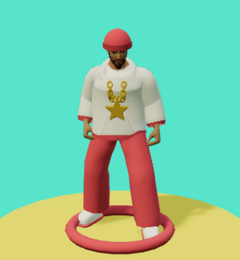
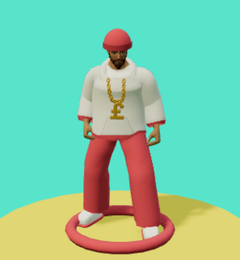
MC Goldie in Stoffkleidung, feinere Ketten mit „G“ und „£“
MC Goldie trägt Oversize-Hoodie in Spielerfarbe und weite dunkle Jeans
als Stoffschicht statt der starren Kugel-Kleidung, dazu Sneaker; Cap und
Sonnenbrille bleiben. Die starren Hoodie- und Baggy-Teile entfallen.

Die Ketten bestehen aus ineinandergreifenden Gliedern, gleichmäßig
entlang eines weichen U verteilt, und enden an einem Ring mit großem
Buchstaben: schwere Glieder mit „G“ (MC Goldie), feine Glieder mit „£“
(Lil Schmidt). Die ganze Kette ist ein Netz mit Skelettbindung; jedes
Glied übernimmt die Gewichte der Stoffstelle darunter und knickt nicht
mehr an Knochengrenzen.

Claude-Session: https://claude.ai/code/session_01XhszNgsfjRTSCqjkHzcpwW

Changed region(s): [[0.4375, 0.2769, 0.5542, 0.4615]]

diff --git a/src/three/riggedFigure.ts b/src/three/riggedFigure.ts
@@ -17,6 +17,7 @@ export type OneShot = "dash" | "hit" | "hitLight" | "jumpStart" | "land" | "slid
 const ONE_SHOTS: readonly string[] = ["dash", "hit", "hitLight", "jumpStart", "land", "slideStart", "cheer", "roll", "punch", "death"];
 
 type Body = "m" | "f";
+type Letter = "G" | "£";
 /** A garment colour: fixed, or the player's colour. */
 type Paint = number | "player";
 interface Outfit {
@@ -38,7 +39,9 @@ interface Human {
   scale?: { head?: number; hands?: number; feet?: number };
   /** Loose clothing as a cloth layer over the body: hoodie (with `trim` for hem, cuffs and hood) and trousers with a side stripe. */
   wear?: { hoodie?: Paint; trim?: Paint; pants?: Paint; stripe?: Paint };
-  accessories?: ("hoodie" | "baggy" | "cap" | "chain" | "shades" | "emblem" | "mask" | "beanie" | "pendant" | "sneakers")[];
+  /** Gold chain with a big letter pendant: heavy links (`heavy`) or a fine chain. */
+  chain?: { letter: Letter; heavy?: boolean };
+  accessories?: ("cap" | "shades" | "emblem" | "mask" | "beanie" | "sneakers")[];
 }
 interface Built { kind: "robot" | "monster" }
 type Spec = Human | Built;
@@ -50,16 +53,17 @@ export const RIGGED_SPECS: Record<RiggedCharacterId, Spec> = {
   rig_lena: { kind: "human", body: "f", skin: "light", hair: "long", hairColor: 0xe0b85c },
   rig_erik: { kind: "human", body: "m", skin: "light", hair: "buzzed", beard: true, hairColor: 0xb4532a },
   rig_zoe: { kind: "human", body: "f", skin: "dark", hair: "buzzedfemale", hairColor: 0xe07a24 },
-  // Rapper: wide hoodie in the player colour, baggy dark jeans, white sneakers, cap, shades, big gold chain.
+  // Rapper: oversized hoodie in the player colour, wide dark jeans, sneakers, cap, shades, heavy gold chain with a big G.
   rig_mc_goldie: { kind: "human", body: "m", skin: "dark", hair: "buzzed", beard: true, hairColor: 0x1a1412,
-    outfit: { shirt: "player", sleeves: "player", shorts: 0x27335a, legs: 0x27335a, shoes: 0xfff9ed, flat: 1 }, accessories: ["baggy", "hoodie", "cap", "shades", "chain"] },
+    outfit: { shirt: 0x1d1f2b, shorts: 0x27335a, legs: 0x27335a, shoes: 0xfff9ed, flat: 1 },
+    wear: { hoodie: "player", pants: 0x27335a }, chain: { letter: "G", heavy: true }, accessories: ["cap", "shades", "sneakers"] },
   // Comic heroine in the game's palette: big head and hands, stepped shading, outline.
   rig_kiki_komet: { kind: "human", body: "f", skin: "light", hair: "buns", hairColor: 0xff5fa8, toon: true, scale: { head: 1.3, hands: 1.35, feet: 1.25 },
     outfit: { shirt: "player", shorts: 0x6544e8, legs: 0xffe44e, shoes: 0xffe44e, gloves: 0xffe44e, wide: [.012, 0, .012, .02], flat: 1 }, accessories: ["emblem", "mask"] },
-  // Second rapper: oversized hoodie and wide trousers as cloth layers, beanie, gold chain with a star.
+  // Second rapper: light oversized hoodie, track pants in the player colour, beanie, fine gold chain with a big £.
   rig_lil_schmidt: { kind: "human", body: "m", skin: "light", hair: "buzzed", beard: true, hairColor: 0x7a4a24,
     outfit: { shirt: 0xfff9ed, shorts: "player", legs: "player", shoes: 0xfff9ed, flat: 1 },
-    wear: { hoodie: 0xece6da, trim: "player", pants: "player", stripe: 0xfff9ed }, accessories: ["beanie", "pendant", "sneakers"] },
+    wear: { hoodie: 0xece6da, trim: "player", pants: "player", stripe: 0xfff9ed }, chain: { letter: "£" }, accessories: ["beanie", "sneakers"] },
   rig_bolt: { kind: "robot" },
   rig_glubschi: { kind: "monster" }
 };
@@ -209,49 +213,92 @@ function starShape(outer: number, inner: number) {
   return star;
 }
 
+/**
+ * Outline of a pendant letter, about one unit tall, centred on the origin.
+ * The £ is built from overlapping strokes (hook with ball end, stem, crossbar, base).
+ */
+function letterShapes(letter: Letter): T.Shape[] {
+  if (letter === "G") {
+    // A ring open at the top right, with the spur and bar of the G.
+    const R = .5, r = .33, open = 40 * Math.PI / 180, bar = .15, inner = Math.sqrt(r * r - bar * bar), g = new T.Shape();
+    g.moveTo(Math.cos(open) * R, Math.sin(open) * R); g.absarc(0, 0, R, open, Math.PI * 2, false);
+    g.lineTo(.03, 0); g.lineTo(.03, -bar); g.lineTo(inner, -bar);
+    g.absarc(0, 0, r, Math.PI * 2 - Math.atan2(bar, inner), open, true); g.closePath();
+    return [g];
+  }
+  const rect = (x0: number, y0: number, x1: number, y1: number) => { const shape = new T.Shape(); shape.moveTo(x0, y0); shape.lineTo(x1, y0); shape.lineTo(x1, y1); shape.lineTo(x0, y1); shape.closePath(); return shape; };
+  const cx = .1, cy = .22, R = .27, r = .13, end = 12 * Math.PI / 180, hook = new T.Shape(), ball = new T.Shape(), tip = (R + r) / 2;
+  hook.moveTo(cx + Math.cos(end) * R, cy + Math.sin(end) * R); hook.absarc(cx, cy, R, end, Math.PI, false); hook.lineTo(cx - r, cy); hook.absarc(cx, cy, r, Math.PI, end, true); hook.closePath();
+  ball.absarc(cx + Math.cos(end) * tip, cy + Math.sin(end) * tip, .085, 0, Math.PI * 2, false);
+  return [hook, ball, rect(cx - R, -.4, cx - r, cy + .005), rect(-.31, -.11, .17, .02), rect(-.37, -.5, .37, -.36)];
+}
+
 /** Clothing pieces and accessories, fitted to the rest pose of this body; each follows one bone. */
 function accessorize(spec: Human, model: T.Object3D, body: T.SkinnedMesh, cloth: T.Mesh | undefined, player: number, materials: T.Material[]) {
   const bone = (n: string) => model.getObjectByName(n)!, at = (n: string) => bone(n).getWorldPosition(new T.Vector3());
   const head = boneBounds(body, /^Head$/), c = head.getCenter(new T.Vector3()), size = head.getSize(new T.Vector3()), radius = Math.max(size.x, size.z) / 2;
   const paint = (p: Paint | undefined, fallback: number) => p === undefined ? fallback : p === "player" ? player : p;
-  const neck = at("neck_01"), chest = boneBounds(body, /^spine_0[23]$/), torso = at("spine_01").lerp(at("spine_03"), .55);
-  // Half axes of the hoodie body; also the surface the chain and emblem rest on.
-  const hoodie = spec.accessories?.includes("hoodie") ? new T.Vector3(.26, .33, .21) : undefined;
-  const frontAt = (x: number, y: number) => cloth && spec.wear?.hoodie !== undefined ? clothSurface(cloth, x, y) : hoodie
-    ? torso.z + hoodie.z * Math.sqrt(Math.max(.05, 1 - ((y - torso.y) / hoodie.y) ** 2 - (x / hoodie.x) ** 2))
-    : chest.max.z + (spec.outfit?.wide?.[0] ?? 0);
-  /** Thin rod between two points (rest pose), following `to`. */
-  const rod = (to: string, from: T.Vector3, end: T.Vector3, radius: number, material: T.Material) => attach(bone(to), new T.CylinderGeometry(radius, radius, from.distanceTo(end), 8), material,
-    m => { m.position.copy(from).lerp(end, .5); m.quaternion.setFromUnitVectors(new T.Vector3(0, 1, 0), end.clone().sub(from).normalize()); }, materials);
-  /** Gold chain on the chest: links from the collar down to a pendant; heavy straight strands or a fine hanging curve. */
-  const chain = (pendant: "disc" | "star", width: number, drop: number) => {
-    const heavy = pendant === "disc", gold = std(heavy ? 0xffc533 : 0xffcb3a, { roughness: heavy ? .25 : .32, metalness: heavy ? .85 : .5 }), low = new T.Vector3(neck.x, neck.y - drop, 0), size = heavy ? .032 : .02;
-    // The strand as points on the cloth, then links at even distances along it.
-    const strand = (side: number, k: number) => { const x = neck.x + side * width * (heavy ? 1 - k : Math.cos(k * Math.PI / 2)), y = neck.y - .05 - (drop - .05) * (heavy ? k : Math.sin(k * Math.PI / 2)); return new T.Vector3(x, y, frontAt(x, y) + size * .7); };
+  const neck = at("neck_01"), chest = boneBounds(body, /^spine_0[23]$/);
+  // The surface chains and emblems rest on: the hoodie's cloth, or the (painted) chest.
+  const frontAt = (x: number, y: number) => cloth && spec.wear?.hoodie !== undefined ? clothSurface(cloth, x, y) : chest.max.z + (spec.outfit?.wide?.[0] ?? 0);
+  /**
+   * Gold chain: two strands hang from the collar in a soft U onto the cloth. The
+   * links interlock (every second one turned by 90° around the strand) and are
+   * spaced evenly along it; a ring at the bottom carries the letter pendant.
+   */
+  const chain = (letter: Letter, heavy: boolean) => {
+    const gold = std(0xffc533, { roughness: .3, metalness: .55 }), size = heavy ? .019 : .012, thick = heavy ? .42 : .36;
+    const width = heavy ? .1 : .062, drop = heavy ? .29 : .25, top = neck.y - .035, bottom = neck.y - drop;
+    const ring = size * 1.25, rest = size * thick + (heavy ? .012 : .008);
+    // Each strand ends at the side of the ring, so the two never pile up in the middle.
+    const strand = (side: number, k: number) => {
+      const x = neck.x + side * (ring + (width - ring) * Math.cos(k * Math.PI / 2)), y = top - (top - bottom) * Math.sin(k * Math.PI / 2);
+      return new T.Vector3(x, y, frontAt(x, y) + rest);
+    };
+    const link = new T.TorusGeometry(size, size * thick, 6, 12), parts: T.BufferGeometry[] = [];
+    const add = (geometry: T.BufferGeometry, place: (o: T.Object3D) => void) => { const o = new T.Object3D(); place(o); o.updateMatrix(); parts.push(geometry.clone().applyMatrix4(o.matrix)); };
     for (const side of [-1, 1]) {
-      const points = Array.from({ length: 49 }, (_, i) => strand(side, i / 48)), lengths = [0];
+      const points = Array.from({ length: 65 }, (_, i) => strand(side, i / 64)), lengths = [0];
       for (let i = 1; i < points.length; i++) lengths.push(lengths[i - 1] + points[i].distanceTo(points[i - 1]));
-      const total = lengths[lengths.length - 1], links = heavy ? 5 : Math.round(total / (size * 1.75));
+      const total = lengths[lengths.length - 1], links = Math.round(total / (size * 1.75));
       for (let i = 0, at = 1; i <= links; i++) {
         const want = total * i / links; while (at < points.length - 1 && lengths[at] < want) at++;
         const position = points[at - 1].clone().lerp(points[at], (want - lengths[at - 1]) / Math.max(1e-6, lengths[at] - lengths[at - 1])), along = points[at].clone().sub(points[at - 1]).normalize();
-        // On a cloth layer the upper links follow the chest, the lower ones the belly, like the cloth below them.
-        attach(bone(cloth && position.y > neck.y - .17 ? "spine_03" : "spine_02"), new T.TorusGeometry(size, size * .38, 6, 12), gold, m => {
-          m.position.copy(position);
-          if (heavy) m.rotation.set(0, i % 2 ? Math.PI / 2 : 0, side * .45);
-          else { m.scale.y = 1.3; m.quaternion.setFromUnitVectors(new T.Vector3(0, 1, 0), along); if (i % 2) m.rotateY(Math.PI / 2); }
-        }, materials);
+        add(link, m => {
+          m.position.copy(position); m.scale.set(1, 1.45, heavy ? .8 : 1);
+          m.quaternion.setFromUnitVectors(new T.Vector3(0, 1, 0), along); if (i % 2) m.rotateY(Math.PI / 2);
+        });
       }
     }
-    if (pendant === "disc") {
-      const y = low.y - .1;
-      attach(bone("spine_02"), new T.CylinderGeometry(.1, .1, .03, 24), gold, m => { m.rotation.x = Math.PI / 2; m.position.set(low.x, y, frontAt(0, y) + .03); }, materials);
-      attach(bone("spine_02"), new T.CylinderGeometry(.055, .055, .04, 6), std(INK, { roughness: .2, metalness: .3 }), m => { m.rotation.x = Math.PI / 2; m.position.set(low.x, y, frontAt(0, y) + .034); }, materials);
-    } else {
-      const y = low.y - .085;
-      attach(bone("spine_02"), new T.ExtrudeGeometry(starShape(.1, .044), { depth: .022, bevelEnabled: true, bevelSize: .006, bevelThickness: .006, bevelSegments: 1 }), gold, m => m.position.set(low.x, y, frontAt(0, y) + .014), materials);
-    }
+    // Ring at the bottom of the U, then the letter, tilted to rest on the cloth.
+    const hang = bottom - ring * .55, height = heavy ? .17 : .15;
+    add(new T.TorusGeometry(ring, size * thick * 1.1, 6, 14), m => m.position.set(neck.x, hang, frontAt(0, hang) + rest));
+    const shape = new T.ExtrudeGeometry(letterShapes(letter), { depth: .1, bevelEnabled: true, bevelSize: .035, bevelThickness: .04, bevelSegments: 2, curveSegments: 14 });
+    shape.computeBoundingBox(); const box = shape.boundingBox!;
+    shape.translate(-(box.min.x + box.max.x) / 2, -box.max.y, -box.min.z); shape.scale(height / (box.max.y - box.min.y), height / (box.max.y - box.min.y), .15);
+    const y0 = hang - ring * .8, y1 = y0 - height, slope = Math.atan2(frontAt(0, y0) - frontAt(0, y1), height);
+    // Lift it until no part of the back sinks into the cloth.
+    let lift = 0; for (let k = 0; k <= 6; k++) { const y = y0 - height * k / 6; lift = Math.max(lift, frontAt(0, y) - (frontAt(0, y0) - Math.tan(slope) * height * k / 6)); }
+    add(shape, m => { m.rotation.x = slope; m.position.set(neck.x, y0, frontAt(0, y0) + lift + .004); });
+    // One skinned mesh: every link takes the bone weights of the cloth (or skin) right below it, so the
+    // strand bends smoothly with the chest instead of breaking where one bone hands over to the next.
+    const under = cloth ?? body, from = under.geometry.attributes.position, fromIndex = under.geometry.attributes.skinIndex, fromWeight = under.geometry.attributes.skinWeight;
+    const merged = mergeGeometries(parts.map(part => {
+      const g = part.index ? part.toNonIndexed() : part; for (const name of Object.keys(g.attributes)) if (!["position", "normal"].includes(name)) g.deleteAttribute(name);
+      g.computeBoundingBox(); const centre = g.boundingBox!.getCenter(new T.Vector3()), v = new T.Vector3();
+      let best = 0, bestDistance = Infinity;
+      for (let i = 0; i < from.count; i++) { const d = v.fromBufferAttribute(from, i).distanceToSquared(centre); if (d < bestDistance) { bestDistance = d; best = i; } }
+      const count = g.attributes.position.count, index = new Uint16Array(count * 4), weight = new Float32Array(count * 4);
+      for (let i = 0; i < count; i++) for (let k = 0; k < 4; k++) { index[i * 4 + k] = fromIndex.getComponent(best, k); weight[i * 4 + k] = fromWeight.getComponent(best, k); }
+      g.setAttribute("skinIndex", new T.Uint16BufferAttribute(index, 4)); g.setAttribute("skinWeight", new T.Float32BufferAttribute(weight, 4));
+      return g;
+    }));
+    parts.forEach(g => g.dispose()); link.dispose(); shape.dispose();
+    const mesh = new T.SkinnedMesh(merged, gold); mesh.bind(body.skeleton, body.bindMatrix);
+    mesh.position.copy(body.position); mesh.quaternion.copy(body.quaternion); mesh.scale.copy(body.scale);
+    mesh.castShadow = true; mesh.frustumCulled = false; body.parent!.add(mesh); materials.push(gold);
   };
+  if (spec.chain) chain(spec.chain.letter, !!spec.chain.heavy);
   if (cloth && spec.wear?.hoodie !== undefined) {
     // The hood lies down: a roll around the neck, thick at the back, thin towards the chest, and a pouch on the upper back.
     const fabric = std(paint(spec.wear.hoodie, player), { roughness: .94 });
@@ -272,23 +319,7 @@ function accessorize(spec: Human, model: T.Object3D, body: T.SkinnedMesh, cloth:
     for (const side of [-1, 1]) attach(bone("spine_03"), new T.SphereGeometry(.024, 10, 8), fabric, m => m.position.copy(along(side)), materials);
   }
   for (const item of spec.accessories ?? []) {
-    if (item === "hoodie") {
-      // Wide hoodie: a roomy body, puffy sleeves, a hood on the back and a belly pocket.
-      const cloth = std(paint(spec.outfit?.shirt, player), { roughness: .92 }), trim = std(new T.Color(paint(spec.outfit?.shirt, player)).multiplyScalar(.72).getHex(), { roughness: .92 });
-      attach(bone("spine_02"), new T.SphereGeometry(1, 24, 18), cloth, m => { m.scale.copy(hoodie!); m.position.copy(torso); }, materials);
-      attach(bone("spine_03"), new T.SphereGeometry(1, 16, 12), trim, m => { m.scale.set(.17, .13, .11); m.position.set(neck.x, neck.y - .01, neck.z - .11); }, materials);
-      attach(bone("spine_02"), new T.BoxGeometry(.24, .1, .04), trim, m => m.position.set(torso.x, torso.y - .2, frontAt(0, torso.y - .2) - .012), materials);
-      for (const s of ["l", "r"]) {
-        attach(bone(`upperarm_${s}`), new T.SphereGeometry(.12, 14, 12), cloth, m => m.position.copy(at(`upperarm_${s}`)), materials);
-        limbPart(model, `upperarm_${s}`, `lowerarm_${s}`, .095, cloth, materials);
-        limbPart(model, `lowerarm_${s}`, `hand_${s}`, .088, cloth, materials, .86);
-      }
-    } else if (item === "baggy") {
-      // Baggy trousers: wide seat and legs that stop above the sneakers.
-      const cloth = std(paint(spec.outfit?.shorts, 0x27335a), { roughness: .9 }), hips = at("pelvis");
-      attach(bone("pelvis"), new T.SphereGeometry(1, 20, 14), cloth, m => { m.scale.set(.22, .17, .18); m.position.set(hips.x, hips.y - .03, hips.z + .02); }, materials);
-      for (const s of ["l", "r"]) { limbPart(model, `thigh_${s}`, `calf_${s}`, .115, cloth, materials); limbPart(model, `calf_${s}`, `foot_${s}`, .105, cloth, materials, .9); }
-    } else if (item === "cap") {
+    if (item === "cap") {
       const cloth = std(INK), accent = std(player);
       // Crown over the upper head, flat brim to the front, button on top.
       attach(bone("Head"), new T.SphereGeometry(radius * 1.1, 20, 10, 0, Math.PI * 2, 0, Math.PI * .5), cloth, m => m.position.set(c.x, head.max.y - radius * .82, c.z - radius * .04), materials);
@@ -298,11 +329,6 @@ function accessorize(spec: Human, model: T.Object3D, body: T.SkinnedMesh, cloth:
       const glass = std(0x0b0b12, { roughness: .15, metalness: .4 });
       for (const side of [-1, 1]) attach(bone("Head"), new T.BoxGeometry(radius * .72, radius * .36, .03), glass, m => m.position.set(c.x + side * radius * .42, head.min.y + size.y * .56, head.max.z - .005), materials);
       attach(bone("Head"), new T.BoxGeometry(radius * 1.9, radius * .08, .025), glass, m => m.position.set(c.x, head.min.y + size.y * .62, head.max.z - .01), materials);
-    } else if (item === "chain") {
-      // Big chain with a heavy medallion. It follows the same bone as the hoodie body, so it stays on the cloth.
-      chain("disc", .1, .3);
-    } else if (item === "pendant") {
-      chain("star", .058, .25);
     } else if (item === "beanie") {
       // Beanie in the player colour: crown over the skull, folded band above the eyes.
       const knit = std(player, { roughness: .95 }), band = std(new T.Color(player).multiplyScalar(.74).getHex(), { roughness: .95 }), y = head.min.y + size.y * .66, r = radius * 1.07, z = c.z - radius * .04;
@@ -375,7 +401,7 @@ function buildHuman(kit: CharacterKit, spec: Human, player: number, materials: T
     const paint = (p: Paint | undefined, fallback: number) => p === undefined ? fallback : p === "player" ? player : p;
     const garments: Garment[] = [...(spec.wear.hoodie !== undefined ? ["hoodie" as const] : []), ...(spec.wear.pants !== undefined ? ["pants" as const] : [])];
     const hoodie = paint(spec.wear.hoodie, player), pants = paint(spec.wear.pants, 0x27335a);
-    const cloth = clothing(skin, `body_${spec.body}`, garments, { hoodie, trim: paint(spec.wear.trim, hoodie), pants, stripe: paint(spec.wear.stripe, pants) });
+    const cloth = clothing(skin, `body_${spec.body}`, garments, { hoodie, trim: paint(spec.wear.trim, new T.Color(hoodie).multiplyScalar(.74).getHex()), pants, stripe: paint(spec.wear.stripe, pants) });
     cloth.position.copy(skin.position); cloth.quaternion.copy(skin.quaternion); cloth.scale.copy(skin.scale);
     skin.parent!.add(cloth); materials.push(cloth.material as T.Material); layer = cloth;
   }

diff --git a/docs/minigames/figuren-rigged.md b/docs/minigames/figuren-rigged.md
@@ -54,21 +54,28 @@ Knochennamen eindeutig.
   aus den Knochengewichten (`_ga`: Shirt, Ärmel, Shorts, Hosenbeine; `_gb`: Schuhe,
   Handschuhe). Der Shader färbt sie ein (fest oder Spielerfarbe), kann sie weiten
   und den Hautschatten ausblenden.
-- **Stoffschicht (`src/three/garments.ts`, Lil Schmidt):** Hoodie und weite Hose
+- **Stoffschicht (`src/three/garments.ts`, MC Goldie und Lil Schmidt):** Hoodie und weite Hose
   entstehen aus dem Körpernetz selbst. Die bedeckten Dreiecke werden an geraden
   Kanten (Saum, Bündchen, Kragenring) abgeschnitten, auf eine weite, gerade
   Silhouette nach außen geschoben (Rumpf als Ellipse, Ärmel und Hosenbeine als
   Röhren um die Knochenachse), geglättet und mit den Körpergewichten an dasselbe
   Skelett gebunden. Der Hoodie-Saum hängt in der Mitte an der Hüfte und schwingt
   nicht mit einem Bein aus. Bauchtasche, Rippbündchen und Hosenstreifen zeichnet
-  der Shader aus der Ruheposition. Kette, Kapuzenrolle und Kapuze liegen auf der
+  der Shader aus der Ruheposition. Kapuzenrolle und Kapuze liegen auf der
   gemessenen Stoffoberfläche (`clothSurface`). Die Geometrie wird je Körpertyp
   einmal berechnet (~40 ms) und geteilt. Füße unter modellierten Sneakern
   zeichnet der Körper nicht.
-- **Starre Kleidung und Zubehör** (MC Goldie und andere) sind eigene Teile, im
-  Ruhezustand platziert und je an einen Knochen gehängt: Hoodie mit Kapuze und
-  Bauchtasche, Baggy-Hose, Cap, Sonnenbrille, Goldkette mit Medaillon,
-  Stern-Emblem, Heldenmaske; dazu Beanie, Sternkette und Sneaker.
+- **Goldketten (`chain` in der Figurenbeschreibung):** zwei Stränge
+  ineinandergreifender Glieder (jedes zweite um 90° gedreht) hängen in einem
+  weichen U auf der Stoffoberfläche und enden seitlich an einem Ring, der einen
+  großen Buchstaben trägt (MC Goldie: schwere Glieder und „G“, Lil Schmidt: feine
+  Glieder und „£“; Umrisse in `letterShapes`, extrudiert mit Fase). Die ganze
+  Kette ist ein Netz mit Skelettbindung: Jedes Glied übernimmt die Gewichte der
+  Stoffstelle darunter, so biegt sich der Strang mit der Brust, statt an
+  Knochengrenzen zu knicken.
+- **Starres Zubehör** ist je ein eigenes Teil, im Ruhezustand platziert und an
+  einen Knochen gehängt: Cap, Beanie, Sonnenbrille, Sneaker, Stern-Emblem,
+  Heldenmaske.
 - **Comic-Look:** gestufte Schattierung (`MeshToonMaterial`), dunkle Kontur als
   umgestülpte Hülle, Knochen-Skalierung für großen Kopf, Hände und Füße (die
   Animationen enthalten keine Skalierung, sie bleibt erhalten).

diff --git a/docs/approved-character-design.md b/docs/approved-character-design.md
@@ -5,9 +5,11 @@ Spielbar sind zwei Gruppen (Register in `shared/characters.ts`):
 - **Animierte Figuren** (seit Nov. 2026, elf Stück, Kennung `rig_…`): Figuren mit
   Skelett und Animationen. Sechs Menschen aus den Quaternius-Basisfiguren (Jonas,
   Amara, Malik, Lena, Erik, Zoe; sie bleiben in Unterwäsche in Spielerfarbe),
-  drei umgestaltete Menschen (MC Goldie: Rapper mit weitem Hoodie, Baggy-Hose, Cap
-  und Goldkette; Lil Schmidt: zweiter Rapper mit Oversize-Hoodie und weiter
-  Trainingshose als echter Stoffschicht, Beanie, Sneakern und Sternkette; Kiki
+  drei umgestaltete Menschen (MC Goldie: Rapper mit Oversize-Hoodie in
+  Spielerfarbe, weiter dunkler Jeans, Sneakern, Cap, Sonnenbrille und schwerer
+  Goldkette mit großem „G“; Lil Schmidt: zweiter Rapper mit hellem
+  Oversize-Hoodie, weiter Trainingshose in Spielerfarbe, Beanie, Sneakern und
+  feiner Goldkette mit großem „£“; beide tragen Kleidung als Stoffschicht; Kiki
   Komet: Comic-Heldin mit Kontur, großen Proportionen, Stern und Maske) und zwei
   eigene Entwürfe aus
   Grundformen (Bolt: Roboter; Glubschi: einäugiges Monster). Quellen CC0 bzw.
